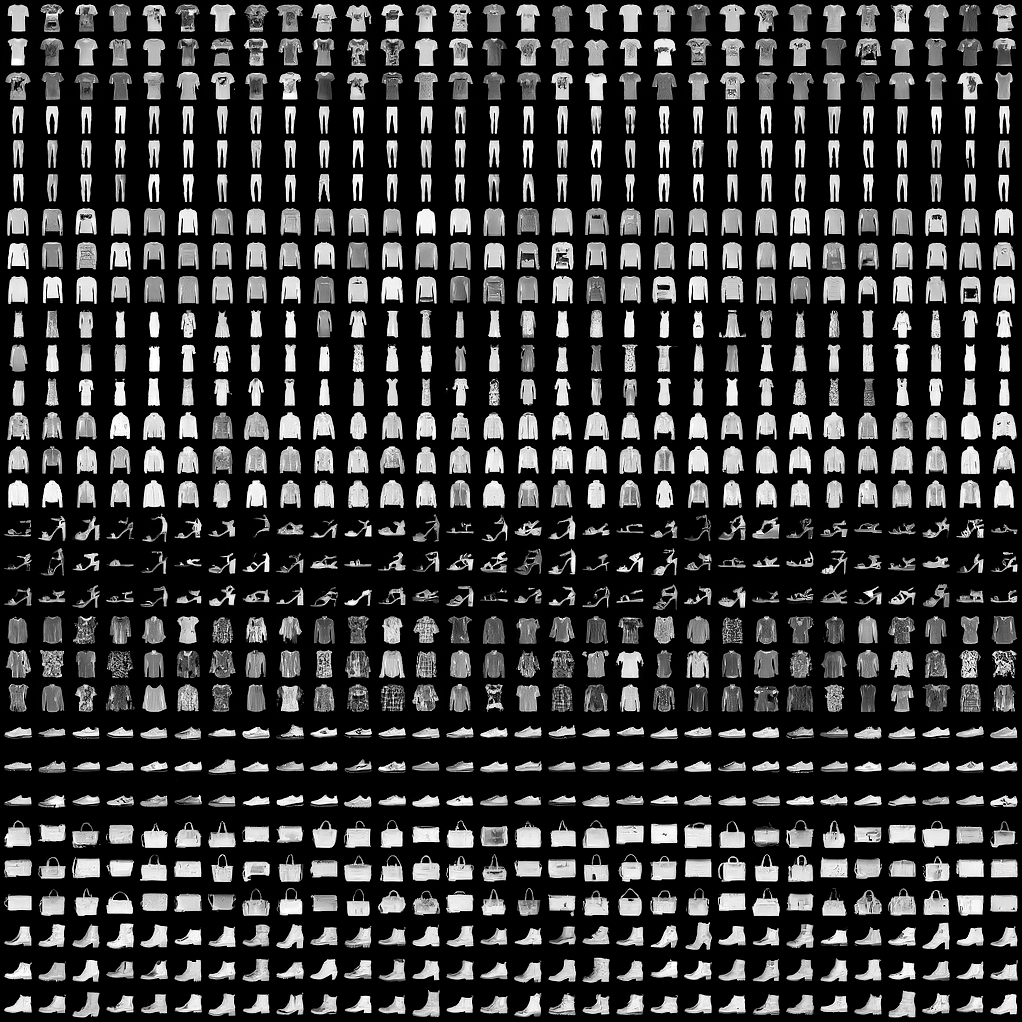
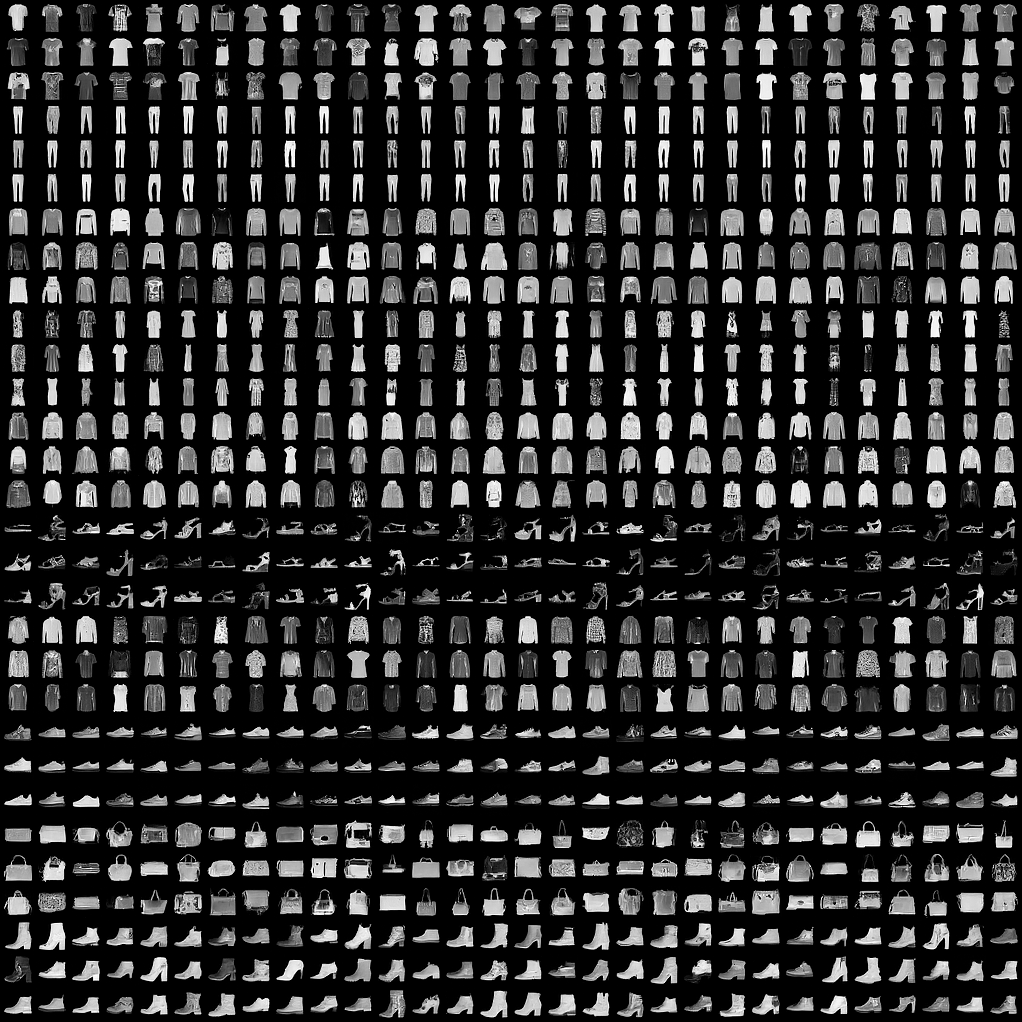
generated new samples

Changed region(s): [[0.0, 0.0, 1.0, 1.0]]

diff --git a/src/sampler.py b/src/sampler.py
@@ -3,7 +3,7 @@ import torch
 
 from diffusion import Diffusion
 from init import init
-from utils import display
+from utils import display, save
 
 from omegaconf import DictConfig
 from typing import Optional, Callable
@@ -117,21 +117,32 @@ def sampler(cfg: DictConfig):
     # Don't use the checkpoint seed for sampling
     torch.seed()
 
+    # # Sample and display
+    # N, C, H, W = 8*8, info.image_channels, info.image_size, info.image_size
+    # samples, samples_inter = sample(
+    #         N, C, H, model, diffusion,
+    #         uncond_label=info.num_classes,
+    #         label=cfg.common.sampling.label,
+    #         cfg_scale=cfg.common.sampling.cfg_scale,
+    #         num_steps=cfg.common.sampling.num_steps,
+    #         track_inter=True
+    #     )
+
+    # display(samples)
+    # # Display intermediate generation steps 
+    # # for the first generated picture
+    # display(samples_inter[:, 0].view(-1, C, H, W))
+
     # Sample and display
-    N, C, H, W = 8*8, info.image_channels, info.image_size, info.image_size
-    samples, samples_inter = sample(
+    N, C, H, W = 3*30*info.num_classes, info.image_channels, info.image_size, info.image_size
+    samples = sample(
             N, C, H, model, diffusion,
             uncond_label=info.num_classes,
-            label=cfg.common.sampling.label,
+            label=torch.repeat_interleave(torch.arange(info.num_classes), 3*30),
             cfg_scale=cfg.common.sampling.cfg_scale,
-            num_steps=cfg.common.sampling.num_steps,
-            track_inter=True
-        )
+            num_steps=cfg.common.sampling.num_steps)
 
-    display(samples)
-    # Display intermediate generation steps 
-    # for the first generated picture
-    display(samples_inter[:, 0].view(-1, C, H, W))
+    save(samples, "./src/images/all.png", nrow=30)
 
 if __name__ == "__main__":
     sampler()
